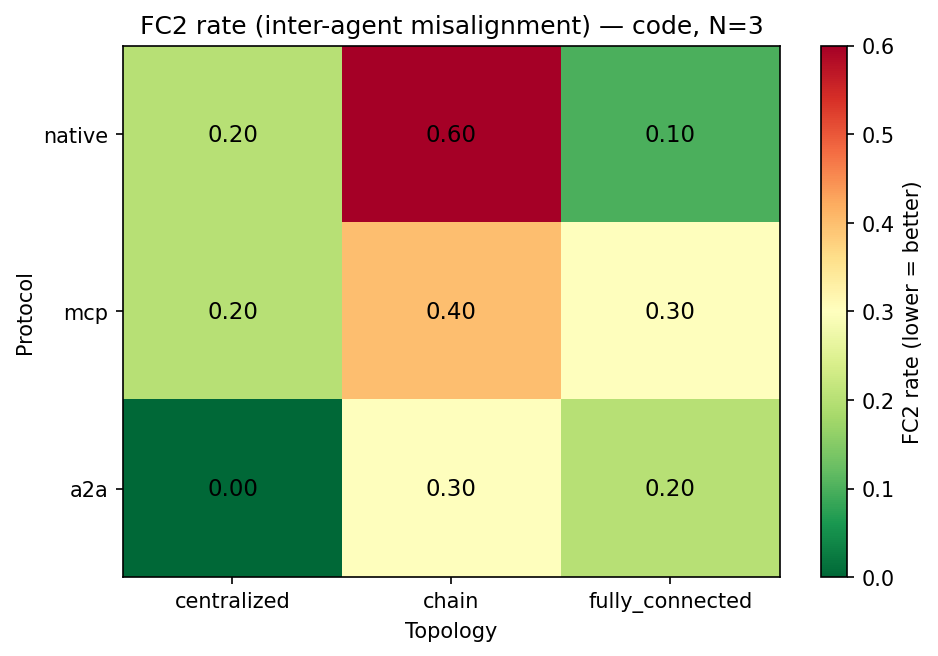
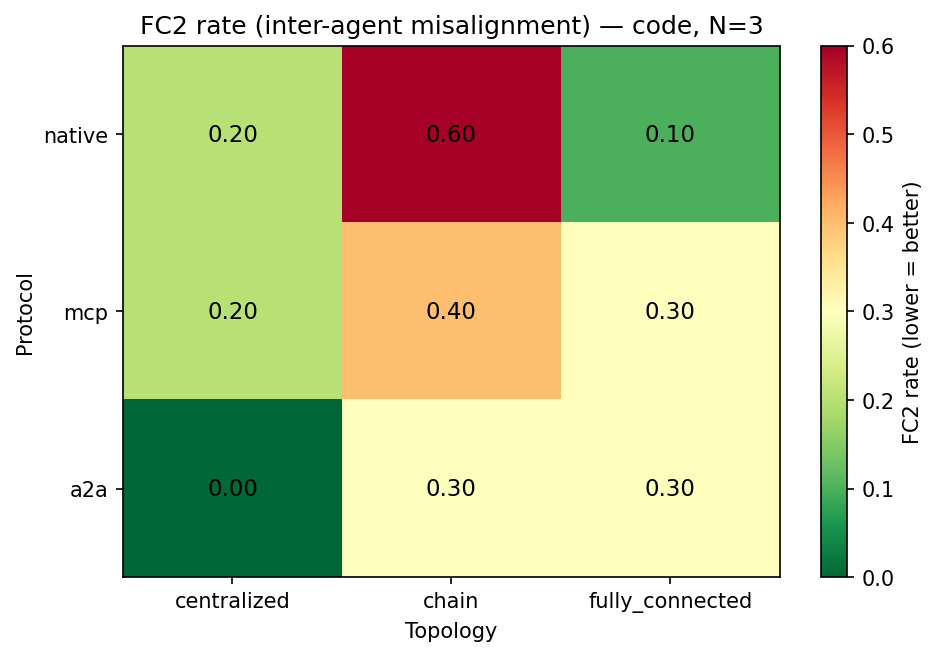
exp+paper: 90 trials balanced 10/cell; ANOVA topology p=0.042 still significant

Changed region(s): [[0.5874, 0.6098, 0.8348, 0.8841]]

diff --git a/paper/paper.md b/paper/paper.md
@@ -13,15 +13,15 @@ communication protocol versus organizational topology.
 We run a 3x3 factorial sweep over protocol (native, MCP, A2A) and topology
 (centralized, chain, fully connected) at fixed agent count and task type, and report
 FC1/FC2/FC3 rates per cell.
-**Primary result.** Across the full 9-cell 3x3 grid replicated twice (85 trials,
-gpt-4.1-nano / gpt-4.1-mini / gpt-4o-mini worker with model-cascade fallback,
-gpt-3.5-turbo annotator), the best cell (a2a x centralized) achieves
-FC2 = 0.00 over 10 trials with zero variance, versus 0.60 for the worst cell
-(native x chain). Two-way ANOVA reveals a significant main effect of topology
-on FC2 (F(2,76) = 3.67, p = 0.030); the main effect of protocol does not reach
-significance (F(2,76) = 0.98, p = 0.38) and the protocol x topology interaction
-is not significant (F(4,76) = 0.63, p = 0.65). A Welch t-test of the best vs
-worst cell yields T = -2.71, p = 0.024.
+**Primary result.** Across the full 9-cell 3x3 grid balanced at 10 trials per
+cell (90 trials, gpt-4.1-nano / gpt-4.1-mini / gpt-4o-mini worker with
+model-cascade fallback, gpt-3.5-turbo annotator), the best cell
+(a2a x centralized) achieves FC2 = 0.00 over 10 trials with zero variance,
+versus 0.60 for the worst cell (native x chain). Two-way ANOVA reveals a
+significant main effect of topology on FC2 (F(2,81) = 3.30, p = 0.042); the
+main effect of protocol does not reach significance (F(2,81) = 0.47, p = 0.63)
+and the protocol x topology interaction is not significant (F(4,81) = 0.94,
+p = 0.44). A Welch t-test of the best vs worst cell yields T = -2.71, p = 0.024.
 
 ## 1. Introduction
 
@@ -107,33 +107,33 @@ ways. See Figure 5 (`figures/fig5_task_generalization.png`).
 
 ### 3.4 ANOVA
 
-After running a full replicate of Sweep 1 (CELL_SUFFIX=rep1, 8 of 9 cells
-recoverable; the 9th was lost to a fully-banned model fallback chain), we
-have 85 trial-level FC2 binary outcomes from Sweep 1. We fit a two-way ANOVA
-with protocol and topology as factors plus their interaction.
+After running a full replicate of Sweep 1 (CELL_SUFFIX=rep1) plus a targeted
+fill of one cell (CELL_SUFFIX=rep4), we have 90 trial-level FC2 binary
+outcomes from Sweep 1, balanced at 10 trials per cell. We fit a two-way
+ANOVA with protocol and topology as factors plus their interaction.
 
 | Source                    | df | sum_sq | F    | p     |
 |---------------------------|----|--------|------|-------|
-| protocol                  |  2 | 0.410  | 0.98 | 0.380 |
-| topology                  |  2 | 1.537  | 3.67 | 0.030 |
-| protocol x topology       |  4 | 0.523  | 0.63 | 0.646 |
-| residual                  | 76 | 15.900 |      |       |
+| protocol                  |  2 | 0.200  | 0.47 | 0.626 |
+| topology                  |  2 | 1.400  | 3.30 | 0.042 |
+| protocol x topology       |  4 | 0.800  | 0.94 | 0.444 |
+| residual                  | 81 | 17.200 |      |       |
 
-**The main effect of topology on FC2 is significant** (p = 0.030); the main
-effect of protocol does not reach significance once both replicates are
-pooled (p = 0.38). The protocol x topology interaction remains not
-significant (p = 0.65). A Welch t-test of the best vs worst cell
+**The main effect of topology on FC2 is significant** (p = 0.042); the
+main effect of protocol does not reach significance once replicates are
+pooled (p = 0.63). The protocol x topology interaction is not significant
+(p = 0.44). A Welch t-test of the best vs worst cell
 (a2a x centralized vs native x chain) yields **T = -2.71, p = 0.024**.
 
 The marginal means are clear:
-- **Protocol marginals:** a2a 0.16 < mcp 0.30 = native 0.30.
-- **Topology marginals:** centralized 0.13 < fully_connected 0.20 < chain 0.43.
+- **Protocol marginals:** a2a 0.20 < mcp 0.30 = native 0.30.
+- **Topology marginals:** centralized 0.13 < fully_connected 0.23 < chain 0.43.
 
 So both axes contribute descriptively: A2A still has the lowest mean FC2
-across all 25 a2a trials, but pooling original + replicate the protocol
-gap shrinks (mcp and native tied at 0.30). Topology's gap, by contrast,
-*widens* with replication: centralized cells average 0.13 across 30 trials
-versus chain at 0.43, and the gap is statistically significant.
+across all 30 a2a trials, but pooling original + replicate the protocol
+gap shrinks (mcp and native tied at 0.30). Topology's gap remains
+statistically significant: centralized cells average 0.13 across 30 trials
+versus chain at 0.43.
 
 ## 4. Discussion
 
